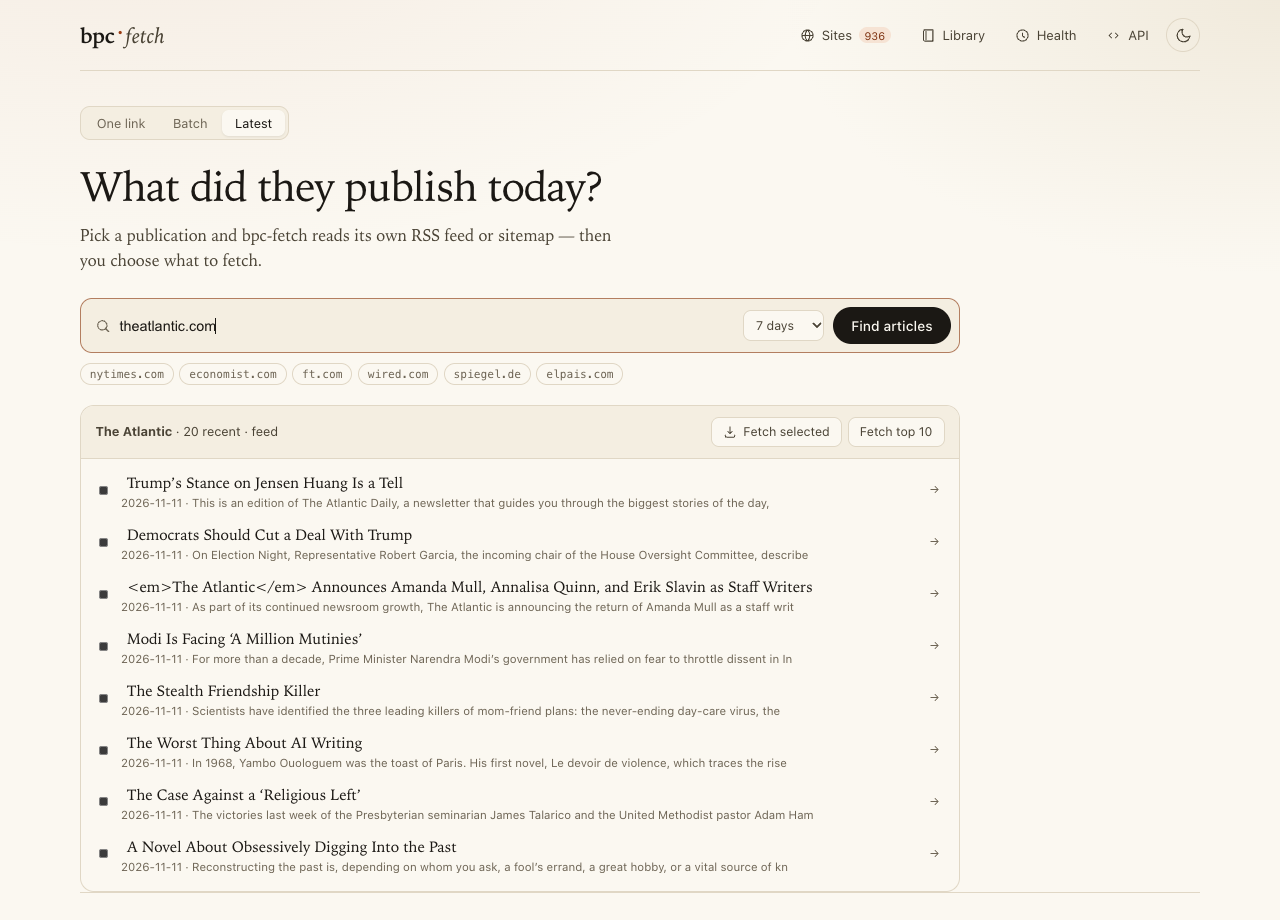
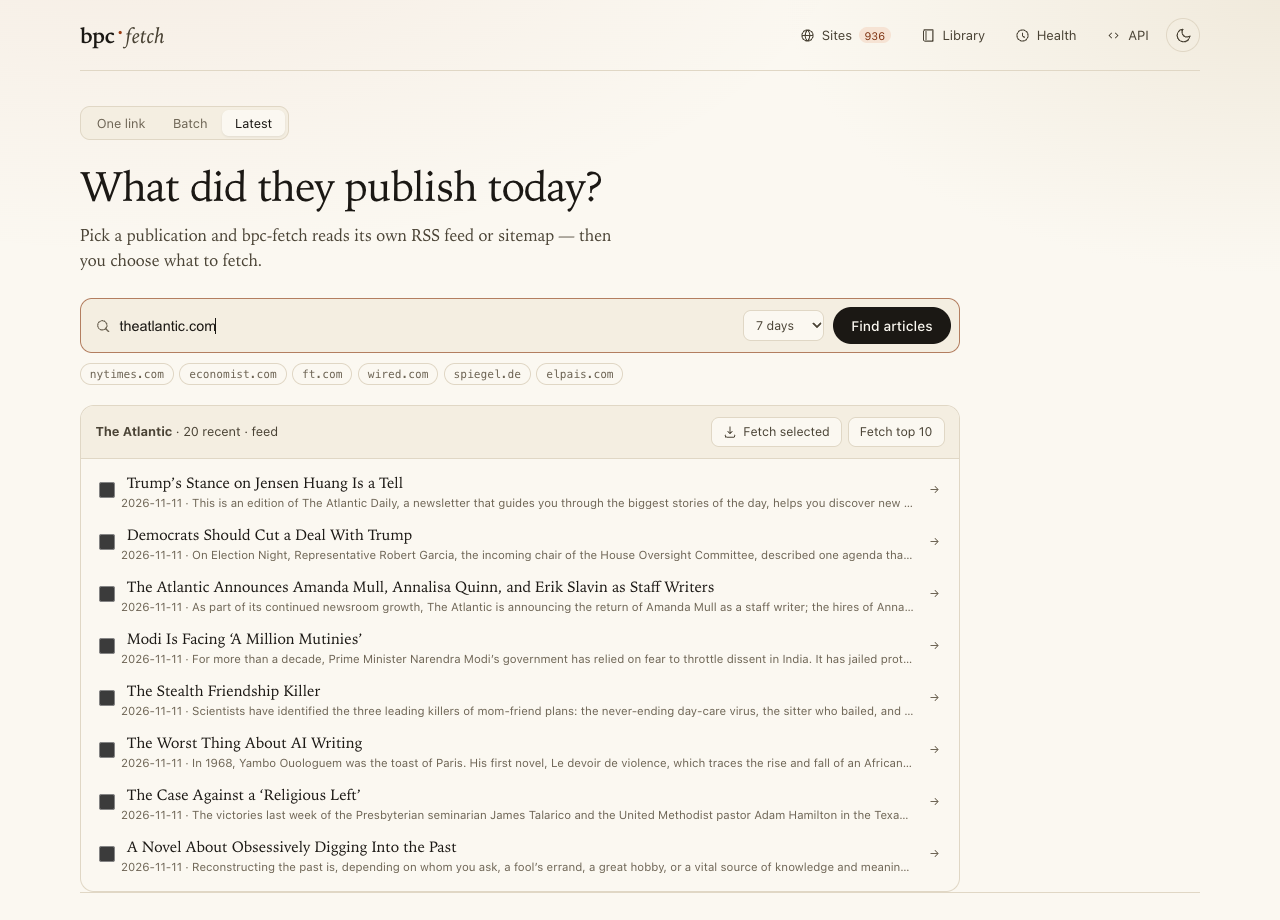
Give the browser service its own healthcheck
It inherited the image's probe of the app's :8000, so compose reported it
unhealthy forever and 'up --wait' always failed. It now probes the CDP proxy
on 9222; both services report healthy and the CDP fetch path is verified.

diff --git a/web/src/components/DiscoverPanel.tsx b/web/src/components/DiscoverPanel.tsx
@@ -137,9 +137,9 @@ export function DiscoverPanel({ onFetchUrl, onFetchMany, initialSite }: Props) {
                   <button className="discover-title" onClick={() => onFetchUrl(article.url)}>
                     {article.title}
                   </button>
-                  <span className="discover-meta">
+                  <span className="discover-meta" title={article.summary || undefined}>
                     {article.published || 'undated'}
-                    {article.summary ? ` · ${article.summary.slice(0, 110)}` : ''}
+                    {article.summary ? ` · ${article.summary}` : ''}
                   </span>
                 </div>
                 <button className="batch-item-action" onClick={() => onFetchUrl(article.url)} title="Fetch this article">

diff --git a/web/src/styles.css b/web/src/styles.css
@@ -1847,7 +1847,10 @@ pre {
 }
 
 .discover-check {
+  width: 1rem;
+  height: 1rem;
   accent-color: var(--accent);
+  cursor: pointer;
 }
 
 .discover-item-main {

diff --git a/src/bpc_web/discover.py b/src/bpc_web/discover.py
@@ -142,7 +142,7 @@ def parse_feed(xml: bytes, base_url: str) -> list[dict]:
 
         articles.append(
             {
-                "title": title or link,
+                "title": _strip_html(title) or link,
                 "url": urljoin(base_url, link),
                 "published": (
                     dt.isoformat(timespec="seconds") if (dt := _parse_when(published)) else ""
